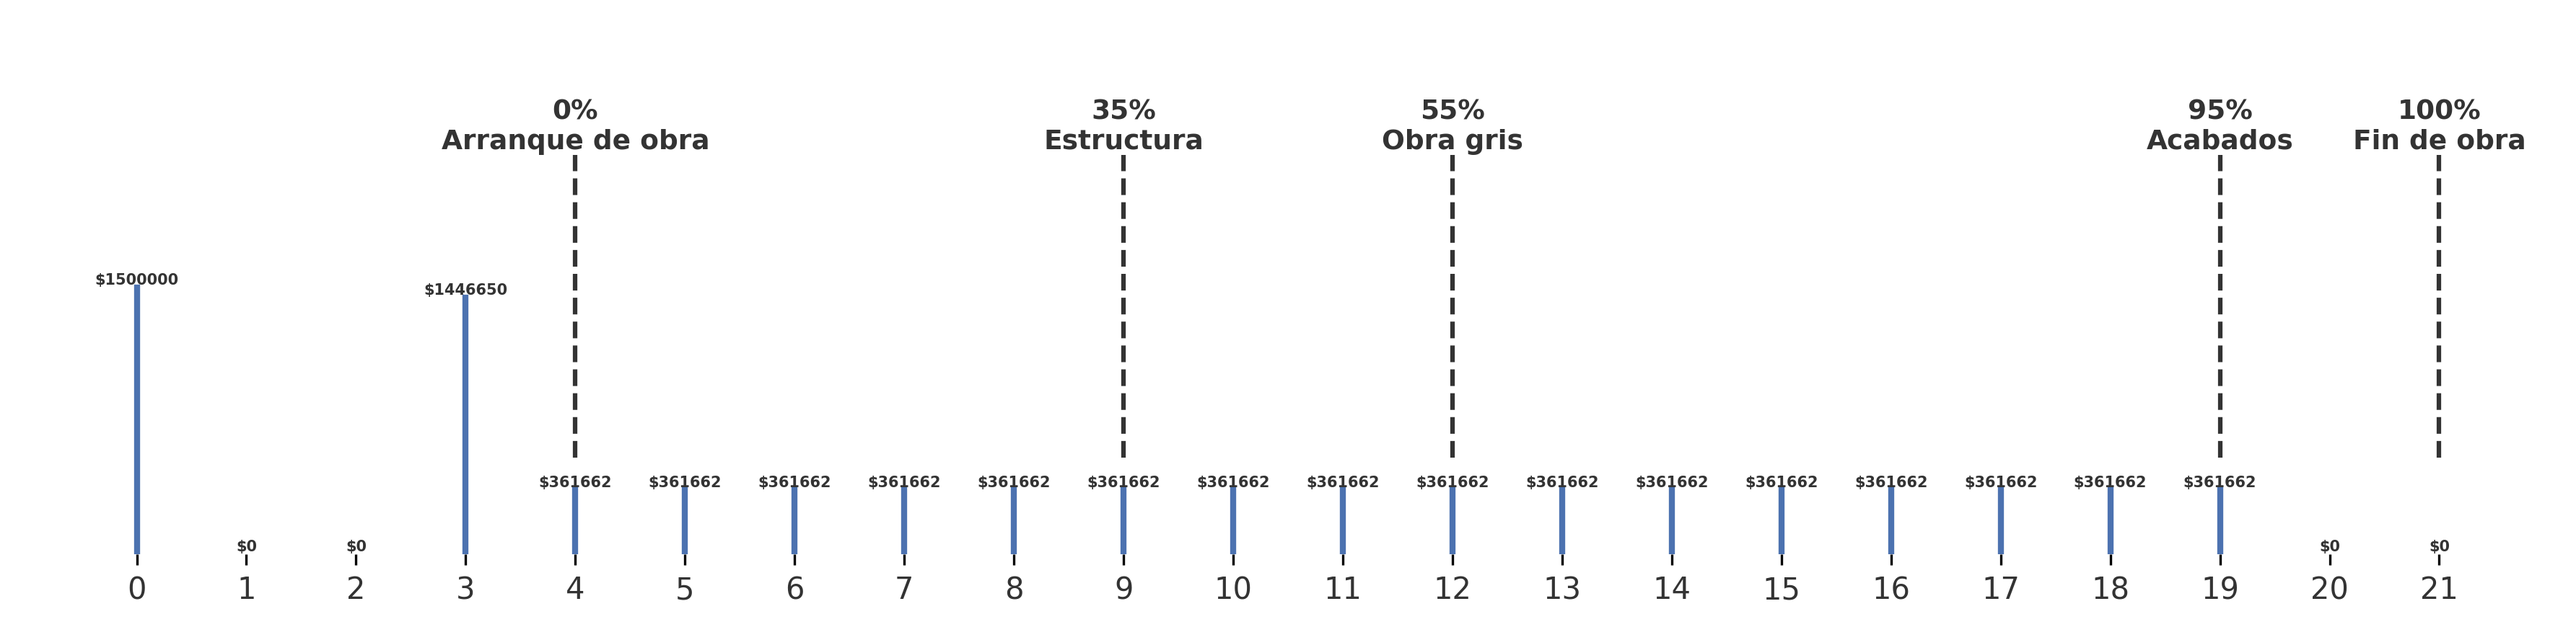
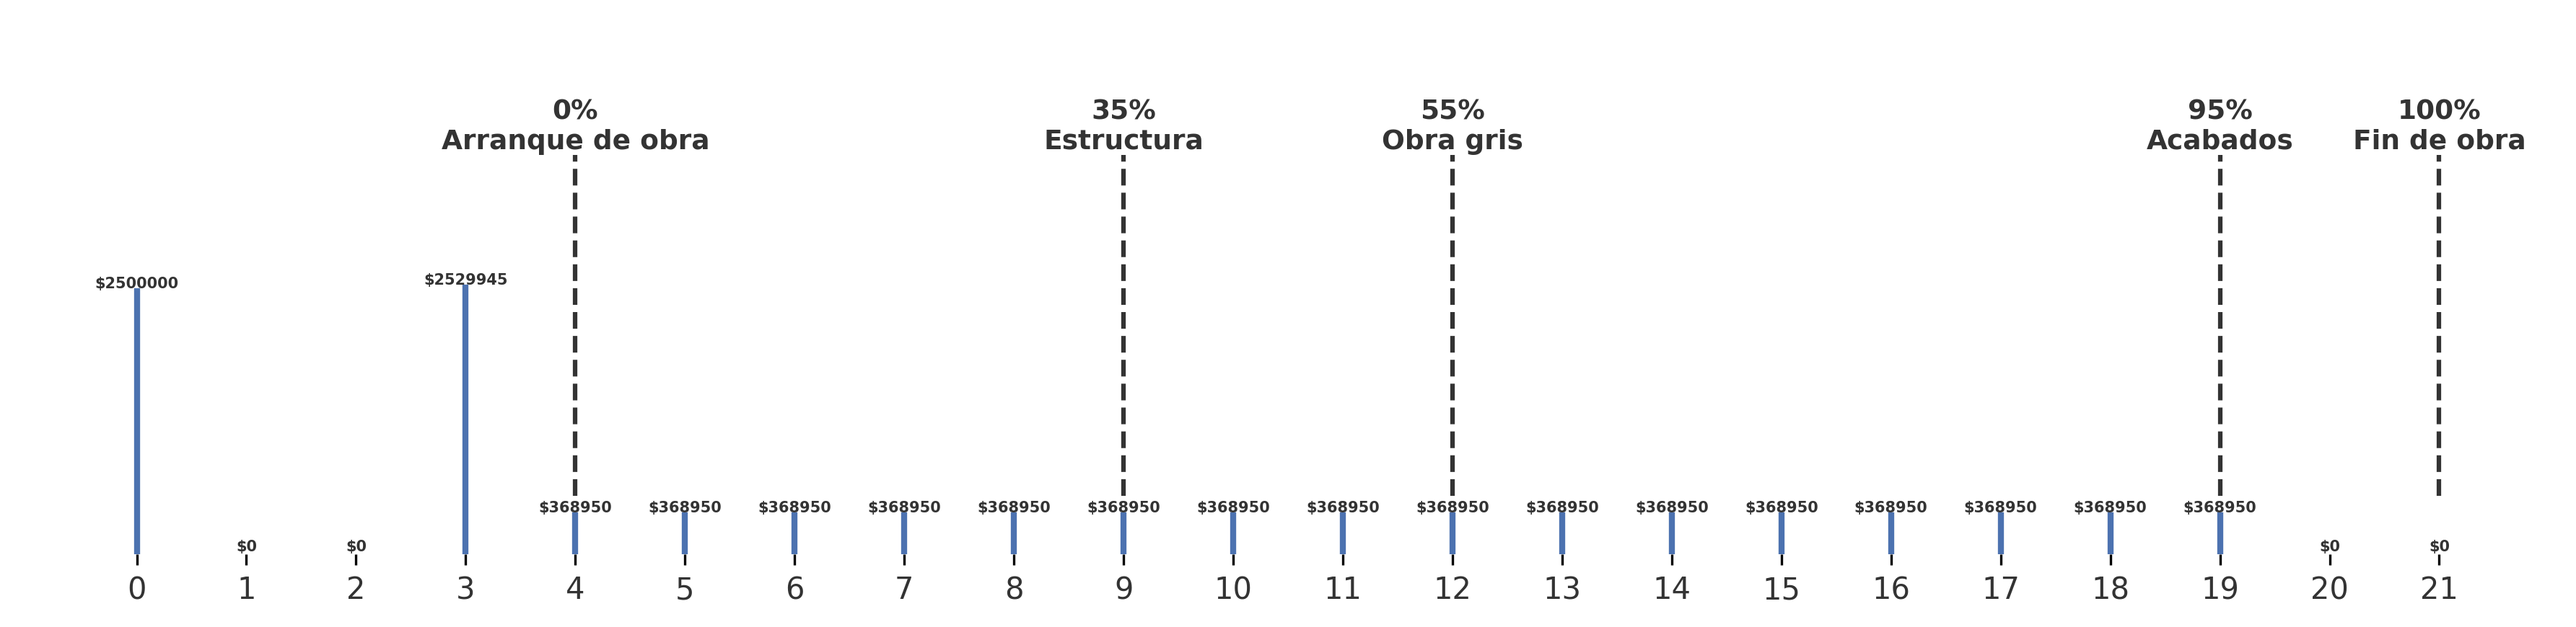
add(cotizador): minor visual changes

Changed region(s): [[0.2176, 0.7448, 0.8706, 0.8379], [0.1555, 0.4345, 0.2176, 0.4655], [0.0311, 0.4345, 0.0933, 0.4655]]

diff --git a/app/src/cotizadorpdf/template.html b/app/src/cotizadorpdf/template.html
@@ -334,14 +334,14 @@
         </table>
         <table class="bordered-table">
             <div class="budget-header">
-                Rango de precios
+                Rango de precios estimados *
             </div>
             <thead>
                 <tr>
                     <th></th>
-                    <th>Minimo</th>
+                    <th>Menos 5%</th>
                     <th>Estimado</th>
-                    <th>Máximo</th>
+                    <th>Más 7%</th>
                 </tr>
             </thead>
             <tbody>
@@ -388,7 +388,7 @@
                 <tr class="total-row">
                     <td>Total</td>
                     <td></td>
-                    <td class="total-amount">${{ valor_total|formato_miles }}</td>
+                    <td class="total-amount">${{ valor_total|formato_miles }} *</td>
                 </tr>
             </tbody>
         </table>
@@ -579,7 +579,8 @@
             </div>
 
             <small>
-                Esta pre cotización tiene una vigencia de 15 días después de su fecha de emisión. Los precios mostrados son montos estimados basados en nuestros históricos de construcción y análisis de catálogos de costos de la región. El valor puede modificarse de acuerdo a alza de precios en materiales y/o mano de obra. Esta cotización es de uso informativo y no implica obligación alguna por parte de RBA Residences. El costo es aproximado y pueden existir variaciones de acuerdo al precio final de construcción.
+                * Esta pre cotización tiene una vigencia de 15 días después de su fecha de emisión. Los precios mostrados son montos estimados basados en nuestros históricos de construcción y análisis de catálogos de costos de la región. El valor puede modificarse de acuerdo a alza de precios en materiales y/o mano de obra. Esta cotización es de uso informativo y no implica obligación alguna por parte de RBA Residences. El costo es aproximado y pueden existir variaciones de acuerdo al precio final de construcción.
+
             </small>
         </div>
     </div>

diff --git a/app/pdfs/static/style.css b/app/pdfs/static/style.css
@@ -311,6 +311,7 @@ table th {
     }
 
 .footer small {
+    height: 5em;
 	display: block;
 	max-width: 800px;
 	margin: 0 auto;

diff --git a/app/src/cotizadorpdf/cotizador.py b/app/src/cotizadorpdf/cotizador.py
@@ -126,11 +126,14 @@ def translateContext(cin) -> dict:
     valor_administracion_m2 = int((valor_subtotal_m2*porcentaje_administracion)/100)
     valor_administracion = int(valor_administracion_m2 * area_interior)
     valor_total = valor_exterior+valor_interior+valor_permisos+total_extras+total_extras
+
     valor_total_min = valor_total * 0.95
-    valor_total_max = valor_total * 1.05
     valor_total_min_m2 = importe_calidad * 0.95
+
+    valor_total_max = valor_total * 1.07
+    valor_total_max_m2 = importe_calidad * 1.07
+
     valor_total_m2 = importe_calidad
-    valor_total_max_m2 = importe_calidad * 1.05
     costo_directo = int((valor_total) * (100/(100+porcentaje_administracion)))
     porcentaje_administracion_rebora_total = int((valor_interior-valor_interior*coeficiente_ganancia)+ valor_exterior-valor_exterior*coeficiente_ganancia + valor_permisos - valor_permisos*coeficiente_ganancia)
     ahorro_materiales = (importe_inicial*area_interior)*0.08
